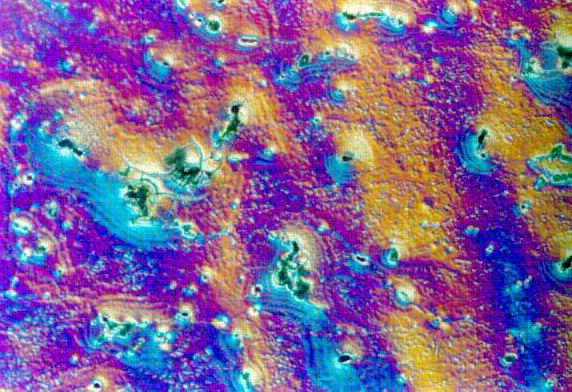
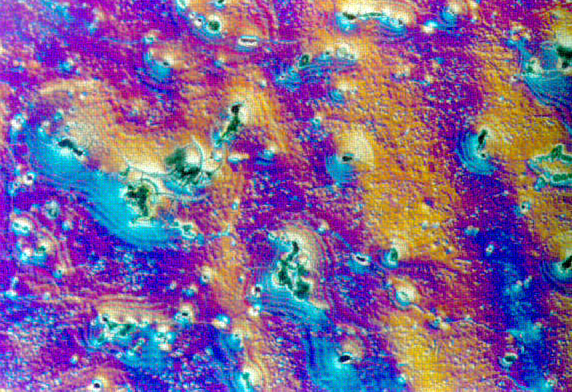
Added intermediate stage outputs/displays, switched downsampling function since upsampling dct didn't seem right

diff --git a/JPEG.m b/JPEG.m
@@ -18,18 +18,10 @@ function o=JPEG(image)
     I = imread(image); % will be padded if necessary
     ogIMG = I; % will be used for error calculation
     figure(1);
-    subplot(3,3,1),imshow(I),title("Original image");
+    subplot(4,3,1),imshow(I),title("Original image");
     
     
-    %% Output and show first 8x8 block before step 1
     
-    blockBeforeS1=I(1:8,1:8,:);
-    blockBeforeS1
-    figure(1);
-    subplot(3,3,2),imshow(blockBeforeS1),title("First 8x8 block before Step 1");
-    f=split(image,".");
-    imwrite(blockBeforeS1,append("input_",f(1),"_8x8_S1.png"));
-
     %% pad the image to make pixels in multiples of 16
     [m,n,~]=size(I);
     pad_x = rem(m,16);
@@ -41,18 +33,40 @@ function o=JPEG(image)
         pad_y = 16 - pad_y;
     end
     I = padarray(I,[pad_x/2 pad_y/2 0],'replicate','both');
+    
+    %% Output and show first 8x8 block before step 1
+    
+    blockBeforeS1=I(1:8,1:8,:);
+    blockBeforeS1(:,:,1)
+    figure(1);
+    subplot(4,3,2),imshow(blockBeforeS1),title("First 8x8 block before Step 1");
+    f=split(image,".");
+    imwrite(blockBeforeS1,append("input_",f(1),"_8x8_S1.png"));
+
 
     %% convert image to YCbCr format
     I2 = rgb2ycbcr(I);
     %figure(2);
     %imshow(I2);
-
+    
+    blockAfterS1=I2(1:8,1:8,:);
+    blockAfterS1(:,:,1)
+    figure(1);
+    subplot(4,3,3),imshow(blockAfterS1),title("First 8x8 block after S1");
+    imwrite(blockAfterS1,append("output_",f(1),"_8x8_S1.png"));
+    
     %% Perform chroma subsampling 4:2:0 on color components Cb and Cr individually
     % Downsample from [m,n] to [m/2, n/2]
     nY = I2(:,:,1);
     nCb=downSample420(I2(:,:,2));
     nCr=downSample420(I2(:,:,3));
 
+    blockAfterS2=cat(3,nY,upSample420(nCb,[m+pad_x n+pad_y]),upSample420(nCr,[m+pad_x n+pad_y]));
+    blockAfterS2=blockAfterS2(1:8,1:8,:);
+    blockAfterS2(:,:,1)
+    figure(1);
+    subplot(4,3,4),imshow(blockAfterS2),title("First 8x8 block after S2");
+    imwrite(blockAfterS2,append("output_",f(1),"_8x8_S2.png"));
     %% Performing dct in blocks of 8x8
     % 8 is the size of the 8x8 block being DCTed.
     C = create_c_matrix(8);
@@ -61,7 +75,14 @@ function o=JPEG(image)
     nnCb = perform_dct(nCb,C);
     nnCr = perform_dct(nCr,C);
     
-
+    blockAfterS3=cat(3,nnY,upSample420(nnCb,[m+pad_x n+pad_y]),upSample420(nnCr,[m+pad_x n+pad_y]));
+    blockAfterS3=blockAfterS3(1:8,1:8,:);
+    blockAfterS3(:,:,1)
+    figure(1);
+    subplot(4,3,5),imshow(blockAfterS3),title("First 8x8 block after S3");
+    imwrite(blockAfterS3,append("output_",f(1),"_8x8_S3.png"));
+    
+    
     %% Quantization matrices
 
     Y_Table=[16 11  10  16 24  40  51 61
@@ -87,25 +108,22 @@ function o=JPEG(image)
     nnnCb = perform_quantization(nnCb,CbCr_Table);
     nnnCr = perform_quantization(nnCr,CbCr_Table);
     
-    %% Output and show first 8x8 block after Step 1, only works if image is in same folder as code
+    blockAfterS4=cat(3,nnnY,upSample420(nnnCb,[m+pad_x n+pad_y]),upSample420(nnnCr,[m+pad_x n+pad_y]));
+    blockAfterS4=blockAfterS4(1:8,1:8,:);
+    blockAfterS4(:,:,1)
+    figure(1);
+    subplot(4,3,6),imshow(blockAfterS4),title("First 8x8 block after S4");
+    imwrite(blockAfterS4,append("output_",f(1),"_8x8_S4.png"));
     
-    blockAfterS1=cat(3,nnnY(1:8,1:8),nnnCb(1:8,1:8),nnnCr(1:8,1:8));
-    blockAfterS1
-    fn=append("output_",f(1),"_8x8_S1.png");
-    imwrite(blockAfterS1,fn);
-    
-    figure(1)
-    subplot(3,3,3),imshow(blockAfterS1),title("First 8x8 block after S1");
-
     %% Output and show image output by Step 1
-    
+    %{
     imageAfterS1=cat(3,nnnY,upSample420(nnnCb,[m+pad_x n+pad_y]),upSample420(nnnCr,[m+pad_x n+pad_y]));
     fn=append(f(1),"_ImageAfterS1.png");
     imwrite(imageAfterS1,fn);
     
     figure(1)
     subplot(3,3,4),imshow(imageAfterS1),title("Image after Step 1");
-
+    %}
     
     %% Now performing all steps in reverse
     % Performing Inverse quantization
@@ -114,46 +132,55 @@ function o=JPEG(image)
     new_nnnCb = perform_inverse_quantization(nnnCb,CbCr_Table);
     new_nnnCr = perform_inverse_quantization(nnnCr,CbCr_Table);
 
+    blockAfterS5=cat(3,new_nnnY,upSample420(new_nnnCb,[m+pad_x n+pad_y]),upSample420(new_nnnCr,[m+pad_x n+pad_y]));
+    blockAfterS5=blockAfterS5(1:8,1:8,:);
+    blockAfterS5(:,:,1)
+    figure(1);
+    subplot(4,3,7),imshow(blockAfterS5),title("First 8x8 block after S5");
+    imwrite(blockAfterS5,append("output_",f(1),"_8x8_S5.png"));
     %% Performing Inverse DCT
 
     new_nnY = perform_inverse_dct(new_nnnY,C);
     new_nnCb = perform_inverse_dct(new_nnnCb,C);
     new_nnCr = perform_inverse_dct(new_nnnCr,C);
     
-    
+    blockAfterS6=cat(3,new_nnY,upSample420(new_nnCb,[m+pad_x n+pad_y]),upSample420(new_nnCr,[m+pad_x n+pad_y]));
+    blockAfterS6=blockAfterS6(1:8,1:8,:);
+    blockAfterS6(:,:,1)
+    figure(1);
+    subplot(4,3,8),imshow(blockAfterS6),title("First 8x8 block after S6");
+    imwrite(blockAfterS2,append("output_",f(1),"_8x8_S6.png"));
     %% Upsample from [m/2,n/2] to [m, n]
 
     
-    new_nY = new_nnY;
-    new_nCb = upSample420(new_nnCb,[m+pad_x n+pad_y]);
-    new_nCr = upSample420(new_nnCr,[m+pad_x n+pad_y]);
+    %new_nY = new_nnY;
+    %new_nCb = upSample420(new_nnCb,[m+pad_x n+pad_y]);
+    %new_nCr = upSample420(new_nnCr,[m+pad_x n+pad_y]);
+    
+    
     %new_nCb=imresize(new_nnCb,2,'bilinear');
     %new_nCr=imresize(new_nnCr,2,'bilinear');
 
     %% Concatenating, and reconverting to RGB
 
     
-    final_im = cat(3,new_nY,new_nCb,new_nCr);
+    final_im = cat(3,new_nnY,new_nnCb,new_nnCr);
     final_im = ycbcr2rgb(final_im); 
     
-
+    blockAfterS7=final_im(1:8,1:8,:);
+    blockAfterS7(:,:,1)
+    figure(1);
+    subplot(4,3,9),imshow(blockAfterS7),title("First 8x8 block after S7");
+    imwrite(blockAfterS2,append("output_",f(1),"_8x8_S7.png"));
     
     %% Removing padding
 
     final_im = final_im((pad_x/2)+1:(pad_x/2)+m , (pad_y/2)+1:(pad_y/2)+n , :);
 
     %% Show and output first 8x8 block after step 2 and final image
-    blockAfterS2=final_im(1:8,1:8,:);
-    blockAfterS2
-    
-    imwrite(blockAfterS2,append("output_",f(1),"_8x8_S2.png"));
     
     figure(1);
-    subplot(3,3,5),imshow(blockAfterS2),title("First 8x8 block after S2");
-    
-    
-    figure(1);
-    subplot(3,3,6),imshow(final_im),title("Image after Step 2/Final image");
+    subplot(4,3,10),imshow(final_im),title("Image after Step 2/Final image");
     
     %imwrite(final_im,'tulips_new.png');
     imwrite(final_im,append("output_",image,".png"));
@@ -179,28 +206,32 @@ function o=JPEG(image)
         end
     end
     function [new_Im]=downSample420(I)
-        % Size of Input Image
-        % m = no of Rows
-        % n= no of Columns
-        I = double(I);
-        [mm,nn]=size(I);   
-        r=1;
-        %Downsample Image from [m,n] to [m/2,n/2] using Chroma 420 
-        for i=1:2:mm-1
-            c=1;
-            for j=1:2:nn-1
-                new_Im(r,c)=(I(i,j)+I(i,j+1)+I(i+1,j)+I(i+1,j+1))/4;
-                c=c+1;
-            end
-            r=r+1;
-        end
-        if((2*(r-1))~=mm)
-            new_Im(r,:)=new_Im(r-1,:);
-        end
-        if((2*(c-1))~=nn)
-            new_Im(:,c)=new_Im(:,c+1);
-        end
-        new_Im = uint8(new_Im);
+         new_Im=I;
+         [rows,cols,~]=size(new_Im);
+         for i=1:2:rows % for every 2x4 block of pixels
+           for j=1:4:cols % for every 2x4 block of pixels 
+              if (i+1<=rows && j+3<=cols)  % if the block fits within the bounds of the image
+                  new_Im(i,j+1)=new_Im(i,j); % sets the Cr value of the 2nd pixel of the top row to the Cr value of the 1st pixel of the top row
+                  new_Im(i,j+3)=new_Im(i,j+2); % sets the Cr value of the 4th pixel of the top row to the Cr value of the 3rd pixel of the top row
+                  new_Im(i+1,j)=new_Im(i,j); % sets the Cr value of the 1st pixel of the bottom row to the Cr value of the 1st pixel of the top row
+                  new_Im(i+1,j+1)=new_Im(i,j); % sets the Cr value of the 2nd pixel of the bottom row to the Cr value of the 1st pixel of the top row
+                  new_Im(i+1,j+2)=new_Im(i,j+2); % sets the Cr value of the 3rd pixel of the bottom row to the Cr value of the 3rd pixel of the top row
+                  new_Im(i+1,j+3)=new_Im(i,j+2); % sets the Cr value of the 4th pixel of the bottom row to the Cr value of the 3rd pixel of the top row
+              elseif (i==rows && j+3<=cols) % if only a 1x4 block fits
+                  new_Im(i,j+1)=new_Im(i,j);
+                  new_Im(i,j+3)=new_Im(i,j+2);
+              elseif (i+1<=rows && j+1<=cols) % if only a 2x2 or 2x3 block fits
+                  new_Im(i,j+1)=new_Im(i,j);
+                  new_Im(i+1,j)=new_Im(i,j);
+                  new_Im(i+1,j+1)=new_Im(i,j);
+              elseif (i==rows && j+1<=cols) % if only a 1x2 or 1x3 block fits
+                  new_Im(i,j+1)=new_Im(i,j);
+              elseif (i+1<=rows) % if only a 2x1 block fits
+                  new_Im(i+1,j)=new_Im(i,j);
+              end
+           end
+         end
+        new_Im=uint8(new_Im);
     end
     function [new_Im]=perform_dct(I,C)
 
@@ -277,7 +308,7 @@ function o=JPEG(image)
         diffIMG = imabsdiff(ogIMG,finalIMG);
         mse = immse(finalIMG, ogIMG);
         psnr = 20 * log10(255/sqrt(mse));
-        subplot(3,3,7),imagesc(diffIMG);
+        subplot(4,3,11),imagesc(diffIMG);
         colorbar;
     end
 end
